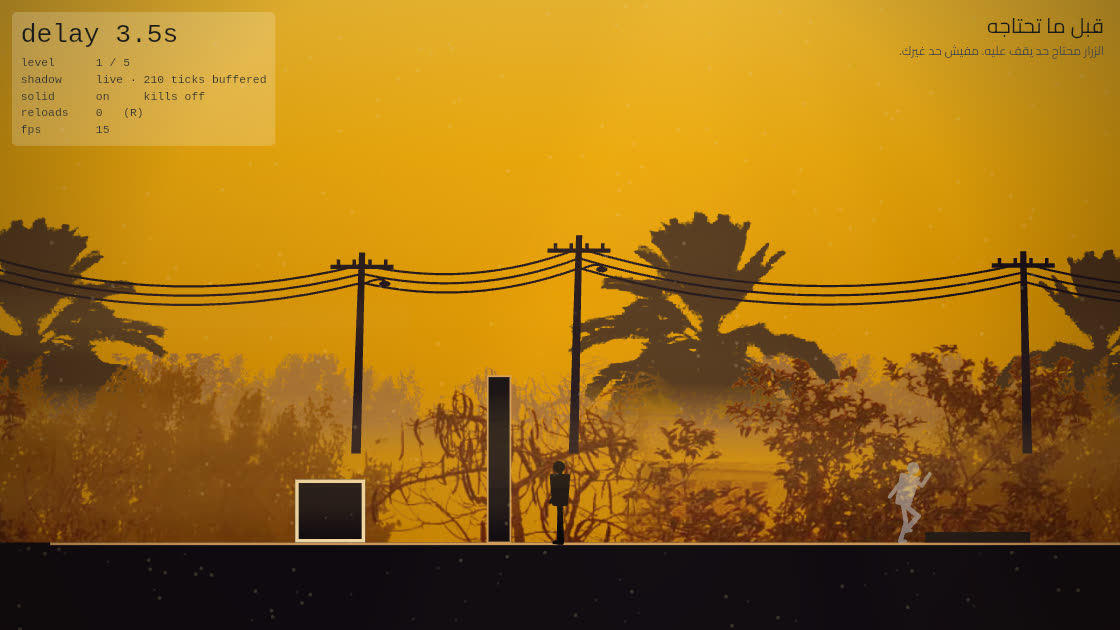
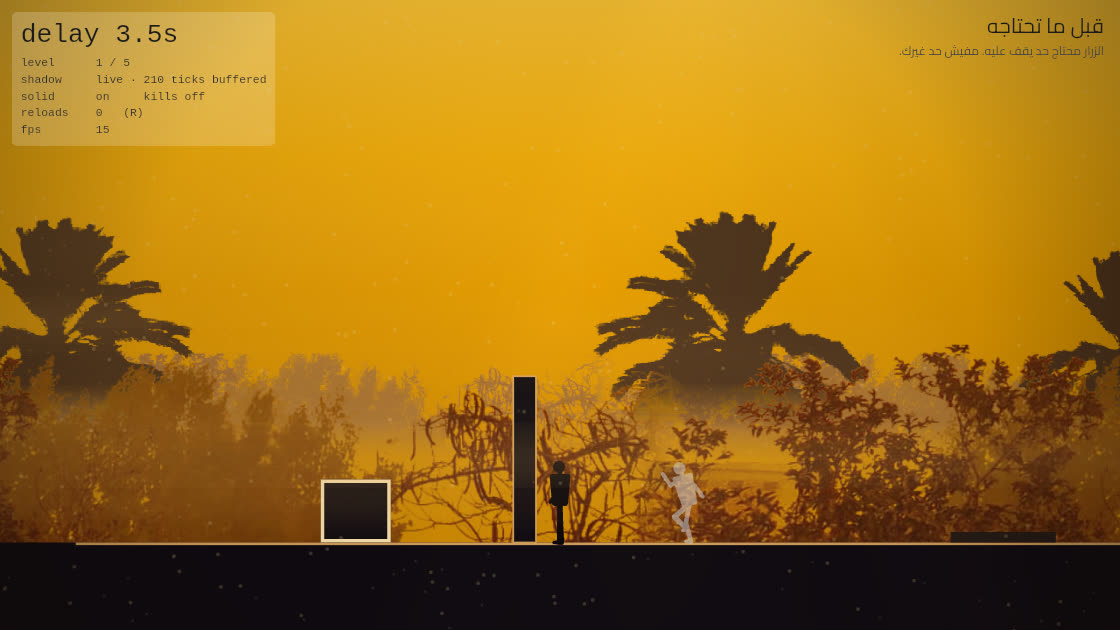
Take the power poles out of the puzzles
They were the one part of the scene standing in the play plane rather than
behind it, and a dark vertical post the same value as a platform is a thing the
player tries to stand on. Good atmosphere is not worth a misread jump.

They were also floating: PowerLine measured from the Phase 1 horizon, not from
the ground of the scene it was placed in, so in a level whose floor is a
hundred units lower the poles ended in mid-air. It takes the ground line as a
parameter now, so turning them back on somewhere would at least put them on the
ground.

Still drawn in the Phase 1 walker scene, where there is no puzzle geometry for
them to be confused with.

Claude-Session: https://claude.ai/code/session_01DR56vgoqkv85PrZU1NWndR

diff --git a/lib/game/power_line.dart b/lib/game/power_line.dart
@@ -2,7 +2,6 @@ import 'dart:math';
 
 import 'package:flutter/material.dart';
 
-import 'config.dart';
 import 'endless.dart';
 
 /// Poles and the wire sagging between them, drawn rather than photographed.
@@ -23,6 +22,7 @@ class PowerLine extends EndlessRow {
   PowerLine({
     required this.color,
     required super.visibleWorldRect,
+    required this.baseY,
     super.spacing = 460,
     this.poleHeight = 250,
     super.seed = 11,
@@ -31,7 +31,12 @@ class PowerLine extends EndlessRow {
 
   final Color color;
 
-  /// Height of a typical pole above the horizon, in world units.
+  /// World y the poles stand on. A parameter rather than the Phase 1 horizon,
+  /// because a scene whose ground is somewhere else gets poles hanging in the
+  /// air above it.
+  final double baseY;
+
+  /// Height of a typical pole above [baseY], in world units.
   final double poleHeight;
 
   @override
@@ -50,7 +55,7 @@ class PowerLine extends EndlessRow {
   /// Village poles are rarely plumb; a perfectly upright row reads as a fence.
   double _leanOf(int index) => (noise(index, seed ^ 0x77) - 0.5) * 18;
 
-  double _topOf(int index) => WarayaConfig.horizonY - _heightOf(index);
+  double _topOf(int index) => baseY - _heightOf(index);
 
   @override
   void buildItem(EndlessItem item, int index, double x) {
@@ -96,10 +101,10 @@ class PowerLine extends EndlessRow {
     const footHalf = 5.5;
     const headHalf = 3.5;
     path
-      ..moveTo(baseX - footHalf, WarayaConfig.horizonY)
+      ..moveTo(baseX - footHalf, baseY)
       ..lineTo(headX - headHalf, top)
       ..lineTo(headX + headHalf, top)
-      ..lineTo(baseX + footHalf, WarayaConfig.horizonY)
+      ..lineTo(baseX + footHalf, baseY)
       ..close();
   }
 

diff --git a/lib/game/scenery.dart b/lib/game/scenery.dart
@@ -30,6 +30,7 @@ class Scenery {
     required this.view,
     required this.groundY,
     this.withGround = true,
+    this.withPowerLine = true,
   });
 
   final Images images;
@@ -45,6 +46,14 @@ class Scenery {
   /// False for the puzzles: a level brings its own floor, and a second ground
   /// plane underneath it is just haze in the wrong place.
   final bool withGround;
+
+  /// Whether the poles and their wires are drawn.
+  ///
+  /// False for the puzzles. They are the one piece of this scene that stands
+  /// *in* the play plane rather than behind it, and a dark vertical post the
+  /// same value as a platform is a thing the player tries to stand on. Good
+  /// atmosphere is not worth a misread jump.
+  final bool withPowerLine;
 
   /// The photographs this scene is made of.
   static const List<String> assets = [
@@ -126,11 +135,13 @@ class Scenery {
           priority: 200,
         ),
       ],
-      PowerLine(
-        color: const Color(0xFF1B1119),
-        visibleWorldRect: view,
-        priority: -5,
-      ),
+      if (withPowerLine)
+        PowerLine(
+          color: const Color(0xFF1B1119),
+          visibleWorldRect: view,
+          baseY: groundY,
+          priority: -5,
+        ),
     ];
   }
 

diff --git a/lib/level/level_game.dart b/lib/level/level_game.dart
@@ -221,6 +221,7 @@ class LevelGame extends FlameGame with HasKeyboardHandlerComponents {
     view: () => camera.visibleWorldRect,
     groundY: level.floorTop,
     withGround: false,
+    withPowerLine: false,
   );
 
   @override

diff --git a/CLAUDE.md b/CLAUDE.md
@@ -184,6 +184,10 @@ point: `main_levels.dart` بـ`silhouette`، و`main_lab.dart` فاضلة `greyB
   المستطيل الحقيقي، فمكان ما الأرض بتخلص لسه باين.
 - **الظل لازم يبقى باين.** أسود على بلوك أسود = مش موجود، ودافي على شجر دافي
   = مش موجود برضه. بقى **فاتح وبارد**: اللون الوحيد اللي مفيش زيه في المشهد.
+- **عمدان الكهرباء اتشالت من المراحل** (فاضلة في مشهد Phase 1). كانت الحاجة
+  الوحيدة في المشهد اللي واقفة **في** مستوى اللعب مش وراه، وعمود غامق رأسي
+  بنفس درجة البلوك = حاجة اللاعب بيحاول يقف عليها. الجو الحلو مايستاهلش نطة
+  غلط.
 
 ## الباك إند
 

diff --git a/README.md b/README.md
@@ -43,7 +43,7 @@ dust in the air and the light shafts are all painted with ordinary blend modes
 a phone, a laptop and in a browser.
 
 ![The first puzzle in the lit scene: a black player at a closed door, a pale
-shadow walking onto a plate behind them](docs/media/lit-level.jpg)
+shadow running toward the plate behind them](docs/media/lit-level.jpg)
 
 The puzzles run in that scene now. They did not to begin with, and the order
 matters: the mechanic was proved on grey boxes first, because a good-looking
